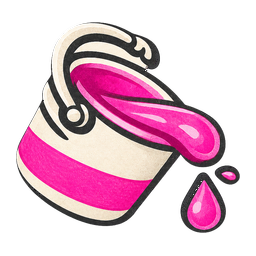
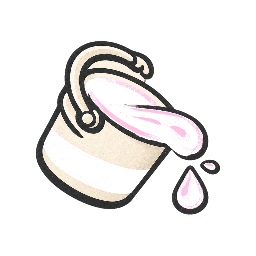
feat(canvas): [S15P11B209-806] 도구 아이콘 v2 와 화면 색을 적용한다
도구 아이콘 밑그림이 분홍 크레용이라, 색 틴트가 덮지 못한 가장자리로 밑그림이
비쳐 나와 테두리에 분홍 띠가 생겼다. 승인된 v2 원화로 갈아 끼운다.

- 원화 규격대로 마스크의 명암을 두고 선택 색을 곱한다. 색으로 덮어쓰면 도구가
  단색 덩어리가 되고 밑그림이 가장자리로 비친다
- 아이콘을 36px 로 줄여 그리므로 보간 품질을 올린다
- 색 견본을 상자 안에서 도구 그림과 같은 비율로 키워 툴바 리듬을 맞춘다
- 스프링은 들어가는 만큼만 온전히 놓고 남는 폭을 사이사이로 나눈다.
  잘라 내면 오른쪽 끝이 반토막 난 채로 남았다
- 화면 배경을 따뜻한 노랑(#FCEEC4)으로, 툴바 면을 #FBF5E8 로 채운다.
  테두리 원화 안쪽이 비어 있어 색을 깔지 않으면 배경이 그대로 비쳤다

원화 들여오기는 tool/brushes/import_tool_icons_test.dart 에 있다.

diff --git a/frontend/mobile/lib/features/drawing/presentation/widgets/drawing_crayon_frame.dart b/frontend/mobile/lib/features/drawing/presentation/widgets/drawing_crayon_frame.dart
@@ -90,32 +90,29 @@ final class DrawingCrayonFrame extends StatelessWidget {
             height: spiralHeight,
             child: IgnorePointer(
               key: const ValueKey('drawing-crayon-frame-spirals'),
-              child: ClipRect(
-                child: LayoutBuilder(
-                  builder: (context, constraints) {
-                    final tileCount = constraints.maxWidth <= 0
-                        ? 0
-                        : (constraints.maxWidth / spiralWidth).ceil();
-                    return OverflowBox(
-                      alignment: Alignment.topLeft,
-                      maxWidth: double.infinity,
-                      child: Row(
-                        mainAxisSize: MainAxisSize.min,
-                        children: List.generate(
-                          tileCount,
-                          (_) => Image.asset(
-                            spiralAsset,
-                            width: spiralWidth,
-                            height: spiralHeight,
-                            fit: BoxFit.fill,
-                            filterQuality: FilterQuality.high,
-                            excludeFromSemantics: true,
-                          ),
-                        ),
+              child: LayoutBuilder(
+                builder: (context, constraints) {
+                  // 들어가는 만큼만 온전히 놓고 남는 폭은 사이사이로 나눈다.
+                  // 잘라 내면 오른쪽 끝 스프링이 반토막 난 채로 남는다.
+                  final tileCount = constraints.maxWidth <= 0
+                      ? 0
+                      : (constraints.maxWidth / spiralWidth).floor();
+                  if (tileCount <= 0) return const SizedBox.shrink();
+                  return Row(
+                    mainAxisAlignment: MainAxisAlignment.spaceBetween,
+                    children: List.generate(
+                      tileCount,
+                      (_) => Image.asset(
+                        spiralAsset,
+                        width: spiralWidth,
+                        height: spiralHeight,
+                        fit: BoxFit.fill,
+                        filterQuality: FilterQuality.high,
+                        excludeFromSemantics: true,
                       ),
-                    );
-                  },
-                ),
+                    ),
+                  );
+                },
               ),
             ),
           ),

diff --git a/frontend/mobile/tool/brushes/import_tool_icons_test.dart b/frontend/mobile/tool/brushes/import_tool_icons_test.dart
@@ -1,0 +1,55 @@
+@Tags(['tool'])
+library;
+
+import 'dart:io';
+import 'dart:ui' as ui;
+
+import 'package:flutter_test/flutter_test.dart';
+
+/// 도구 아이콘 원화(v2)를 앱 에셋 이름으로 들여오는 일회성 도구다.
+///
+///   flutter test tool/brushes/import_tool_icons_test.dart
+///
+/// 원화는 1024x1024 라 36px 아이콘에는 너무 크다. 256 으로 줄여 담는다.
+/// CI 가 test/ 만 돌도록 tool/ 아래 둔다.
+const _source =
+    r'C:\Users\SSAFY\Desktop\프로젝트 자료\캔버스 디자인 자료\도구_v2';
+const _size = 256;
+
+/// 원화 파일 → 앱 에셋 경로.
+const _files = <String, String>{
+  'crayon-base.png': 'assets/canvas/tools/crayon_base.png',
+  'pencil-base.png': 'assets/canvas/tools/pencil_base.png',
+  'brush-base.png': 'assets/canvas/tools/brush_base.png',
+  'paint-base.png': 'assets/canvas/tools/fill_base.png',
+  'eraser-fixed.png': 'assets/canvas/tools/eraser_base.png',
+  'palette-fixed.png': 'assets/canvas/tools/palette_base.png',
+  'crayon-tint-mask.png': 'assets/canvas/tools/masks/crayon_point.png',
+  'pencil-tint-mask.png': 'assets/canvas/tools/masks/pencil_point.png',
+  'brush-tint-mask.png': 'assets/canvas/tools/masks/brush_point.png',
+  'paint-tint-mask.png': 'assets/canvas/tools/masks/fill_point.png',
+};
+
+void main() {
+  test('tool icons are imported at icon size', () async {
+    for (final entry in _files.entries) {
+      final source = File('$_source${Platform.pathSeparator}${entry.key}');
+      expect(source.existsSync(), isTrue, reason: entry.key);
+
+      final codec = await ui.instantiateImageCodec(
+        await source.readAsBytes(),
+        targetWidth: _size,
+        targetHeight: _size,
+      );
+      final frame = await codec.getNextFrame();
+      codec.dispose();
+      final png = await frame.image.toByteData(format: ui.ImageByteFormat.png);
+      frame.image.dispose();
+      expect(png, isNotNull, reason: entry.value);
+
+      File(entry.value)
+        ..createSync(recursive: true)
+        ..writeAsBytesSync(png!.buffer.asUint8List());
+    }
+  });
+}

diff --git a/frontend/mobile/lib/features/drawing/presentation/widgets/drawing_toolbar.dart b/frontend/mobile/lib/features/drawing/presentation/widgets/drawing_toolbar.dart
@@ -509,6 +509,18 @@ final class _ToolbarChrome extends StatelessWidget {
     return Stack(
       fit: StackFit.expand,
       children: [
+        // 테두리 원화 안쪽은 비어 있다. 여기에 면을 깔지 않으면 바깥 배경이
+        // 그대로 비쳐 툴바가 배경과 한 덩어리로 보인다.
+        Padding(
+          padding: const EdgeInsets.all(_toolbarBorderInset),
+          child: DecoratedBox(
+            key: const ValueKey('drawing-toolbar-surface'),
+            decoration: BoxDecoration(
+              color: AppColors.canvasToolbarSurface,
+              borderRadius: BorderRadius.circular(tablet ? 14 : 10),
+            ),
+          ),
+        ),
         IgnorePointer(
           child: Image.asset(
             tablet
@@ -602,14 +614,14 @@ final class _QuickColorButtonState extends State<_QuickColorButton> {
                             key: ValueKey(
                               'drawing-quick-color-selection-ring-${widget.index}',
                             ),
-                            size: const Size.square(36),
+                            size: const Size.square(42),
                             painter: const _CrayonSelectionRingPainter(),
                           ),
                         SizedBox.square(
                           key: ValueKey(
                             'drawing-quick-color-swatch-${widget.index}',
                           ),
-                          dimension: 28,
+                          dimension: 34,
                           child: Image.asset(
                             widget.assetPath,
                             fit: BoxFit.contain,
@@ -773,3 +785,7 @@ final class _ToolbarAssetActionState extends State<_ToolbarAssetAction> {
     );
   }
 }
+
+/// 툴바 테두리 선이 원화 가장자리에서 안쪽으로 들어간 만큼이다. 면을 이만큼
+/// 비워야 색이 선 밖으로 새지 않는다.
+const double _toolbarBorderInset = 5;

diff --git a/frontend/mobile/lib/features/drawing/presentation/widgets/canvas_tool_asset_icon.dart b/frontend/mobile/lib/features/drawing/presentation/widgets/canvas_tool_asset_icon.dart
@@ -8,7 +8,7 @@ final class CanvasToolAssetIcon extends StatelessWidget {
     required this.artwork,
     required this.pointColor,
     this.size = 40,
-    this.filterQuality = FilterQuality.medium,
+    this.filterQuality = FilterQuality.high,
     super.key,
   });
 
@@ -47,20 +47,19 @@ final class CanvasToolAssetIcon extends StatelessWidget {
               errorBuilder: (context, error, stackTrace) => _fallback(),
             ),
             if (maskPath != null)
-              ShaderMask(
-                blendMode: BlendMode.srcIn,
-                shaderCallback: (bounds) => LinearGradient(
-                  colors: [pointColor, pointColor],
-                ).createShader(bounds),
-                child: Image.asset(
-                  maskPath,
-                  key: ValueKey('canvas-tool-mask-${artwork.name}'),
-                  fit: BoxFit.contain,
-                  alignment: Alignment.center,
-                  filterQuality: filterQuality,
-                  errorBuilder: (context, error, stackTrace) =>
-                      const SizedBox.shrink(),
-                ),
+              // 원화 규격대로 마스크의 명암은 두고 선택 색을 곱한다. 색으로
+              // 덮어쓰면 도구가 단색 덩어리가 되고, 밑그림 색이 가장자리로
+              // 비쳐 나와 테두리에 분홍 띠가 생긴다.
+              Image.asset(
+                maskPath,
+                key: ValueKey('canvas-tool-mask-${artwork.name}'),
+                fit: BoxFit.contain,
+                alignment: Alignment.center,
+                filterQuality: filterQuality,
+                color: pointColor,
+                colorBlendMode: BlendMode.modulate,
+                errorBuilder: (context, error, stackTrace) =>
+                    const SizedBox.shrink(),
               ),
           ],
         ),

diff --git a/frontend/mobile/lib/design_system/tokens/app_colors.dart b/frontend/mobile/lib/design_system/tokens/app_colors.dart
@@ -53,6 +53,10 @@ abstract final class AppColors {
   static const Color canvasPrimaryPressed = Color(0xFFE5C84F);
   static const Color canvasInk = Color(0xFF3A3832);
   static const Color canvasWarm = Color(0xFFFFFDF5);
+
+  /// 도구 툴바가 놓이는 면이다. 테두리 원화 안쪽은 비어 있어 이 색을 깔지
+  /// 않으면 바깥 배경이 그대로 비친다.
+  static const Color canvasToolbarSurface = Color(0xFFFBF5E8);
   static const Color canvasBorder = Color(0xFFE5DFC8);
   static const Color canvasBorderStrong = Color(0xFFC9BF99);
 
@@ -76,7 +80,10 @@ abstract final class AppColors {
   static const Color canvasSwatchCharcoal = Color(0xFF3A3832);
 
   /// 캔버스 화면의 바깥 배경과 스케치북이 놓이는 면이다.
-  static const Color canvasBackdrop = Color(0xFFE6E2D8);
+  ///
+  /// 배경은 앱 포인트 옐로를 옅게 푼 톤이다. 흰 종이와 대비를 두면서도 아이
+  /// 화면답게 따뜻하다.
+  static const Color canvasBackdrop = Color(0xFFFCEEC4);
   static const Color canvasStage = Color(0xFFF5F1E6);
 
   static const Color drawingCharcoal = canvasSwatchCharcoal;

diff --git a/frontend/mobile/test/features/drawing/canvas_tool_asset_icon_test.dart b/frontend/mobile/test/features/drawing/canvas_tool_asset_icon_test.dart
@@ -27,7 +27,9 @@ void main() {
       find.byKey(const ValueKey('canvas-tool-mask-crayon')),
       findsOneWidget,
     );
-    expect(find.byType(ShaderMask), findsOneWidget);
+    // 원화 규격대로 마스크의 명암을 두고 선택 색을 곱한다(S15P11B209-806).
+    // 색으로 덮어쓰면 도구가 단색 덩어리가 되고 밑그림이 가장자리로 비친다.
+    expect(find.byType(ShaderMask), findsNothing);
 
     final base = tester.widget<Image>(
       find.byKey(const ValueKey('canvas-tool-base-crayon')),
@@ -49,6 +51,9 @@ void main() {
     expect(mask.alignment, Alignment.center);
     expect(base.filterQuality, FilterQuality.high);
     expect(mask.filterQuality, FilterQuality.high);
+    expect(base.color, isNull);
+    expect(mask.color, Colors.red);
+    expect(mask.colorBlendMode, BlendMode.modulate);
   });
 
   testWidgets(

diff --git a/frontend/mobile/test/features/drawing/drawing_toolbar_accessibility_test.dart b/frontend/mobile/test/features/drawing/drawing_toolbar_accessibility_test.dart
@@ -116,7 +116,8 @@ void main() {
             ),
           );
         }
-        expect(baseSizes.toSet(), {const Size(28, 28)});
+        // 견본이 상자 안에서 도구 그림과 같은 비율로 차야 툴바 리듬이 맞는다.
+        expect(baseSizes.toSet(), {const Size(34, 34)});
 
         const expectedSwatchAssets = <String>[
           'assets/canvas/swatches/red.png',
@@ -201,7 +202,7 @@ void main() {
           );
           expect(text.style?.color, entry.value);
           expect(
-            _contrastRatio(entry.value, AppColors.canvasWarm),
+            _contrastRatio(entry.value, AppColors.canvasToolbarSurface),
             greaterThanOrEqualTo(4.5),
           );
           expect(
